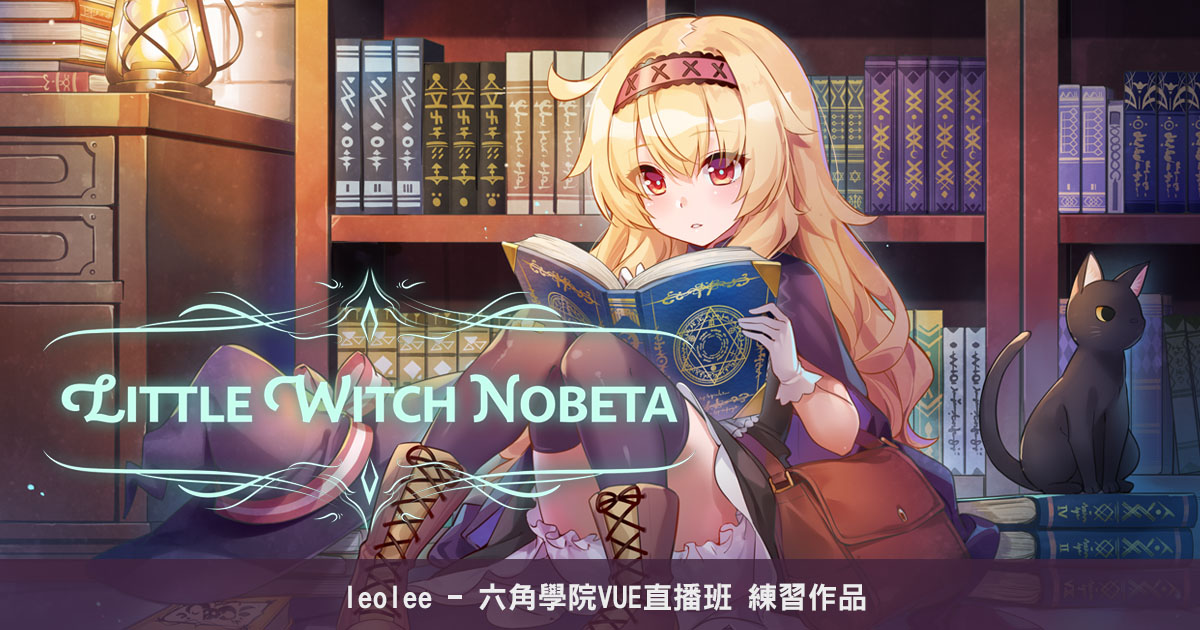
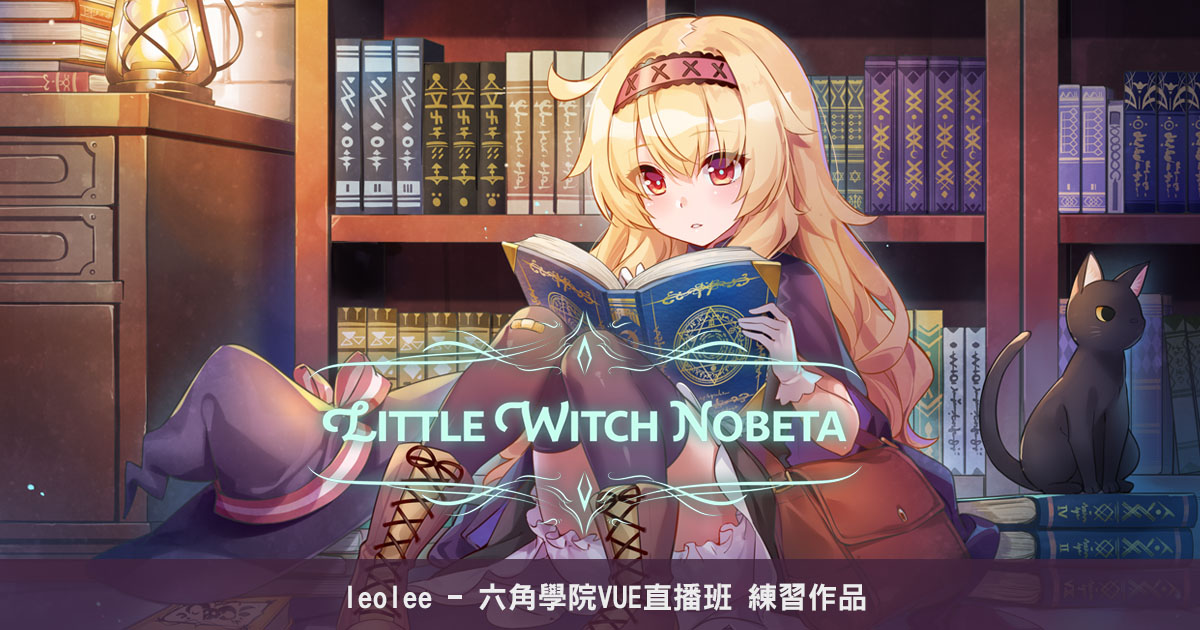
ogp圖修正 ogp line呈現 replace render

Changed region(s): [[0.0308, 0.4222, 0.7092, 0.8444]]

diff --git a/dist/js/app.71af3c0d.js b/dist/js/app.71af3c0d.js
@@ -1,0 +1,2 @@
+(function(e){function t(t){for(var c,r,o=t[0],i=t[1],d=t[2],f=0,l=[];f<o.length;f++)r=o[f],Object.prototype.hasOwnProperty.call(u,r)&&u[r]&&l.push(u[r][0]),u[r]=0;for(c in i)Object.prototype.hasOwnProperty.call(i,c)&&(e[c]=i[c]);h&&h(t);while(l.length)l.shift()();return a.push.apply(a,d||[]),n()}function n(){for(var e,t=0;t<a.length;t++){for(var n=a[t],c=!0,r=1;r<n.length;r++){var o=n[r];0!==u[o]&&(c=!1)}c&&(a.splice(t--,1),e=i(i.s=n[0]))}return e}var c={},r={app:0},u={app:0},a=[];function o(e){return i.p+"js/"+({}[e]||e)+"."+{"chunk-016425c0":"d58e2214","chunk-0167ba2d":"c37ff696","chunk-08be935a":"6f9b055a","chunk-16d38f62":"59ce5733","chunk-19ffc72b":"ac01c579","chunk-31a8e76e":"b71936c7","chunk-3552cd32":"1a8a3ce2","chunk-55d65c3c":"8c1a81f5","chunk-6f9ac5f0":"c57c2bc8","chunk-722bc18c":"5eccf3b7","chunk-d1561c14":"327c90f3","chunk-dfd9a15a":"2be42dbf","chunk-7b5731e5":"2cbac242","chunk-d80b04c0":"23c9bdae"}[e]+".js"}function i(t){if(c[t])return c[t].exports;var n=c[t]={i:t,l:!1,exports:{}};return e[t].call(n.exports,n,n.exports,i),n.l=!0,n.exports}i.e=function(e){var t=[],n={"chunk-016425c0":1,"chunk-31a8e76e":1,"chunk-3552cd32":1,"chunk-55d65c3c":1};r[e]?t.push(r[e]):0!==r[e]&&n[e]&&t.push(r[e]=new Promise((function(t,n){for(var c="css/"+({}[e]||e)+"."+{"chunk-016425c0":"f05ba646","chunk-0167ba2d":"31d6cfe0","chunk-08be935a":"31d6cfe0","chunk-16d38f62":"31d6cfe0","chunk-19ffc72b":"31d6cfe0","chunk-31a8e76e":"f05ba646","chunk-3552cd32":"67f9e00b","chunk-55d65c3c":"f05ba646","chunk-6f9ac5f0":"31d6cfe0","chunk-722bc18c":"31d6cfe0","chunk-d1561c14":"31d6cfe0","chunk-dfd9a15a":"31d6cfe0","chunk-7b5731e5":"31d6cfe0","chunk-d80b04c0":"31d6cfe0"}[e]+".css",u=i.p+c,a=document.getElementsByTagName("link"),o=0;o<a.length;o++){var d=a[o],f=d.getAttribute("data-href")||d.getAttribute("href");if("stylesheet"===d.rel&&(f===c||f===u))return t()}var l=document.getElementsByTagName("style");for(o=0;o<l.length;o++){d=l[o],f=d.getAttribute("data-href");if(f===c||f===u)return t()}var h=document.createElement("link");h.rel="stylesheet",h.type="text/css",h.onload=t,h.onerror=function(t){var c=t&&t.target&&t.target.src||u,a=new Error("Loading CSS chunk "+e+" failed.\n("+c+")");a.code="CSS_CHUNK_LOAD_FAILED",a.request=c,delete r[e],h.parentNode.removeChild(h),n(a)},h.href=u;var s=document.getElementsByTagName("head")[0];s.appendChild(h)})).then((function(){r[e]=0})));var c=u[e];if(0!==c)if(c)t.push(c[2]);else{var a=new Promise((function(t,n){c=u[e]=[t,n]}));t.push(c[2]=a);var d,f=document.createElement("script");f.charset="utf-8",f.timeout=120,i.nc&&f.setAttribute("nonce",i.nc),f.src=o(e);var l=new Error;d=function(t){f.onerror=f.onload=null,clearTimeout(h);var n=u[e];if(0!==n){if(n){var c=t&&("load"===t.type?"missing":t.type),r=t&&t.target&&t.target.src;l.message="Loading chunk "+e+" failed.\n("+c+": "+r+")",l.name="ChunkLoadError",l.type=c,l.request=r,n[1](l)}u[e]=void 0}};var h=setTimeout((function(){d({type:"timeout",target:f})}),12e4);f.onerror=f.onload=d,document.head.appendChild(f)}return Promise.all(t)},i.m=e,i.c=c,i.d=function(e,t,n){i.o(e,t)||Object.defineProperty(e,t,{enumerable:!0,get:n})},i.r=function(e){"undefined"!==typeof Symbol&&Symbol.toStringTag&&Object.defineProperty(e,Symbol.toStringTag,{value:"Module"}),Object.defineProperty(e,"__esModule",{value:!0})},i.t=function(e,t){if(1&t&&(e=i(e)),8&t)return e;if(4&t&&"object"===typeof e&&e&&e.__esModule)return e;var n=Object.create(null);if(i.r(n),Object.defineProperty(n,"default",{enumerable:!0,value:e}),2&t&&"string"!=typeof e)for(var c in e)i.d(n,c,function(t){return e[t]}.bind(null,c));return n},i.n=function(e){var t=e&&e.__esModule?function(){return e["default"]}:function(){return e};return i.d(t,"a",t),t},i.o=function(e,t){return Object.prototype.hasOwnProperty.call(e,t)},i.p="",i.oe=function(e){throw console.error(e),e};var d=window["webpackJsonp"]=window["webpackJsonp"]||[],f=d.push.bind(d);d.push=t,d=d.slice();for(var l=0;l<d.length;l++)t(d[l]);var h=f;a.push([0,"chunk-vendors"]),n()})({0:function(e,t,n){e.exports=n("56d7")},"56d7":function(e,t,n){"use strict";n.r(t);n("e260"),n("e6cf"),n("cca6"),n("a79d"),n("159b"),n("b64b");var c=n("7a23"),r=n("bc3a"),u=n.n(r),a=n("2106"),o=n.n(a),i=n("7bb1"),d=n("3aa8"),f=n("cbdf"),l=n("9457");n("7b17"),n("ab8b");function h(e,t,n,r,u,a){var o=Object(c["y"])("router-view");return Object(c["t"])(),Object(c["d"])(o)}var s={methods:{createTitleDesc:function(e){if(e.meta.title){var t=e.meta.title+" | 小魔女諾貝塔雜貨店";document.title=t}else document.title="小魔女諾貝塔雜貨店";if(e.meta.desc){var n=e.meta.desc+" | 小魔女諾貝塔雜貨店";document.querySelector("meta[name='description']").setAttribute("content",n)}else document.querySelector("meta[name='description']").setAttribute("content","小魔女諾貝塔雜貨店，在古堡探險的旅途中，為您提供所需的道具與物資。")}},mounted:function(){var e=this.$route;this.createTitleDesc(e)},watch:{$route:function(e){this.createTitleDesc(e)}}};s.render=h;var b=s,p=(n("d3b7"),n("3ca3"),n("ddb0"),n("6c02")),m=[{path:"/:pathMatch(.*)*",component:function(){return n.e("chunk-016425c0").then(n.bind(null,"8cdb"))},meta:{title:"找不到頁面",desc:""}},{path:"/login",component:function(){return n.e("chunk-31a8e76e").then(n.bind(null,"a55b"))},meta:{title:"後台登入介面",desc:""}},{path:"/",component:function(){return n.e("chunk-55d65c3c").then(n.bind(null,"d504"))},children:[{path:"",component:function(){return n.e("chunk-0167ba2d").then(n.bind(null,"ec27"))},meta:{title:"",desc:"諾貝塔為了瞭解自己的身世之謎而來到古堡探險，並在那邊挑戰了許多生魂，學習到各類的魔法與能力，同時也遇上了充滿謎團的小黑貓，如今已能在古堡裡獨當一面的諾貝塔，開始販賣起不知從何處入手的奇怪商品與物資…"}},{path:"products",component:function(){return n.e("chunk-19ffc72b").then(n.bind(null,"e6dc"))},meta:{title:"商品列表",desc:"專門販賣諾貝塔不知從何處入手的奇怪商品與物資…"}},{path:"product/:id",component:function(){return n.e("chunk-d80b04c0").then(n.bind(null,"d2f1"))}},{path:"cart",component:function(){return n.e("chunk-7b5731e5").then(n.bind(null,"b789"))},meta:{title:"購物車列表",desc:"距離獲得諾貝塔的稀有寶物與商品只差臨門一腳了"}},{path:"about",component:function(){return n.e("chunk-16d38f62").then(n.bind(null,"f820"))},meta:{title:"關於諾貝塔",desc:"關於諾貝塔為何踏上探險旅途的故事"}}]},{path:"/admin",component:function(){return n.e("chunk-3552cd32").then(n.bind(null,"459d"))},children:[{path:"",component:function(){return n.e("chunk-08be935a").then(n.bind(null,"4a84"))},meta:{title:"後台管理介面",desc:""}},{path:"products",component:function(){return Promise.all([n.e("chunk-6f9ac5f0"),n.e("chunk-d1561c14")]).then(n.bind(null,"724a"))},meta:{title:"商品列表",desc:""}},{path:"orders",component:function(){return Promise.all([n.e("chunk-6f9ac5f0"),n.e("chunk-dfd9a15a")]).then(n.bind(null,"860c"))},meta:{title:"訂單列表",desc:""}},{path:"coupon",component:function(){return Promise.all([n.e("chunk-6f9ac5f0"),n.e("chunk-722bc18c")]).then(n.bind(null,"6bde"))},meta:{title:"優惠券設定",desc:""}}]}],k=Object(p["a"])({history:Object(p["b"])(),routes:m}),v=k;n("ac1f"),n("5319"),n("b680");function g(e){var t=parseInt(e,10);return"".concat(t.toFixed(0).replace(/./g,(function(e,t,n){return t&&"."!==e&&(n.length-t)%3===0?", ".concat(e).replace(/\s/g,""):e})))}function y(e){var t=new Date(1e3*e);return t.toLocaleDateString()}Object.keys(d["a"]).forEach((function(e){"default"!==e&&Object(i["e"])(e,d["a"][e])})),Object(i["d"])({generateMessage:Object(f["a"])({zh_TW:l}),validateOnInput:!0}),Object(f["b"])("zh_TW");var O=Object(c["c"])(b);O.config.globalProperties.$filters={date:y,currency:g,render:function(e){return e(b)}},O.use(o.a,u.a),O.use(v),O.component("Form",i["c"]),O.component("Field",i["b"]),O.component("ErrorMessage",i["a"]),O.mount("#app")}});
+//# sourceMappingURL=app.71af3c0d.js.map

diff --git a/dist/index.html b/dist/index.html
@@ -1,1 +1,1 @@
-<!DOCTYPE html><html lang="zh-Hant-TW"><head><meta charset="utf-8"><meta http-equiv="X-UA-Compatible" content="IE=edge"><meta name="viewport" content="width=device-width,initial-scale=1"><link rel="icon" href="favicon.ico"><title>week08</title><meta name="description"><meta property="og:url" content="https://overactive1988.github.io/HexSchool_vue_lesson2021/week08/#/"><meta property="og:type" content="article"><meta property="og:title" content="小魔女諾貝塔雜貨店"><meta property="og:description" content="小魔女諾貝塔雜貨店，在古堡探險的旅途中，為您提供所需的道具與物資。"><meta property="og:image" content="https://overactive1988.github.io/HexSchool_vue_lesson2021/week08/ogp.jpg"><link href="https://fonts.googleapis.com/icon?family=Material+Icons" rel="stylesheet"><link rel="stylesheet" href="https://cdn.jsdelivr.net/npm/bootstrap-icons@1.5.0/font/bootstrap-icons.css"><link href="css/chunk-016425c0.f05ba646.css" rel="prefetch"><link href="css/chunk-31a8e76e.f05ba646.css" rel="prefetch"><link href="css/chunk-3552cd32.67f9e00b.css" rel="prefetch"><link href="css/chunk-55d65c3c.f05ba646.css" rel="prefetch"><link href="js/chunk-016425c0.d58e2214.js" rel="prefetch"><link href="js/chunk-0167ba2d.c37ff696.js" rel="prefetch"><link href="js/chunk-08be935a.6f9b055a.js" rel="prefetch"><link href="js/chunk-16d38f62.59ce5733.js" rel="prefetch"><link href="js/chunk-19ffc72b.ac01c579.js" rel="prefetch"><link href="js/chunk-31a8e76e.b71936c7.js" rel="prefetch"><link href="js/chunk-3552cd32.1a8a3ce2.js" rel="prefetch"><link href="js/chunk-55d65c3c.8c1a81f5.js" rel="prefetch"><link href="js/chunk-6f9ac5f0.c57c2bc8.js" rel="prefetch"><link href="js/chunk-722bc18c.5eccf3b7.js" rel="prefetch"><link href="js/chunk-7b5731e5.2cbac242.js" rel="prefetch"><link href="js/chunk-d1561c14.327c90f3.js" rel="prefetch"><link href="js/chunk-d80b04c0.23c9bdae.js" rel="prefetch"><link href="js/chunk-dfd9a15a.2be42dbf.js" rel="prefetch"><link href="css/chunk-vendors.454776ae.css" rel="preload" as="style"><link href="js/app.87087a17.js" rel="preload" as="script"><link href="js/chunk-vendors.9a68a853.js" rel="preload" as="script"><link href="css/chunk-vendors.454776ae.css" rel="stylesheet"></head><body><noscript><strong>We're sorry but week08 doesn't work properly without JavaScript enabled. Please enable it to continue.</strong></noscript><div id="app"></div><script src="js/chunk-vendors.9a68a853.js"></script><script src="js/app.87087a17.js"></script></body></html>
+<!DOCTYPE html><html lang="zh-Hant-TW"><head><meta charset="utf-8"><meta http-equiv="X-UA-Compatible" content="IE=edge"><meta name="viewport" content="width=device-width,initial-scale=1"><link rel="icon" href="favicon.ico"><title>week08</title><meta name="description"><meta property="og:url" content="https://overactive1988.github.io/HexSchool_vue_lesson2021/week08/#/"><meta property="og:type" content="article"><meta property="og:title" content="小魔女諾貝塔雜貨店"><meta property="og:description" content="小魔女諾貝塔雜貨店，在古堡探險的旅途中，為您提供所需的道具與物資。"><meta property="og:image" content="https://overactive1988.github.io/HexSchool_vue_lesson2021/week08/ogp.jpg"><link href="https://fonts.googleapis.com/icon?family=Material+Icons" rel="stylesheet"><link rel="stylesheet" href="https://cdn.jsdelivr.net/npm/bootstrap-icons@1.5.0/font/bootstrap-icons.css"><link href="css/chunk-016425c0.f05ba646.css" rel="prefetch"><link href="css/chunk-31a8e76e.f05ba646.css" rel="prefetch"><link href="css/chunk-3552cd32.67f9e00b.css" rel="prefetch"><link href="css/chunk-55d65c3c.f05ba646.css" rel="prefetch"><link href="js/chunk-016425c0.d58e2214.js" rel="prefetch"><link href="js/chunk-0167ba2d.c37ff696.js" rel="prefetch"><link href="js/chunk-08be935a.6f9b055a.js" rel="prefetch"><link href="js/chunk-16d38f62.59ce5733.js" rel="prefetch"><link href="js/chunk-19ffc72b.ac01c579.js" rel="prefetch"><link href="js/chunk-31a8e76e.b71936c7.js" rel="prefetch"><link href="js/chunk-3552cd32.1a8a3ce2.js" rel="prefetch"><link href="js/chunk-55d65c3c.8c1a81f5.js" rel="prefetch"><link href="js/chunk-6f9ac5f0.c57c2bc8.js" rel="prefetch"><link href="js/chunk-722bc18c.5eccf3b7.js" rel="prefetch"><link href="js/chunk-7b5731e5.2cbac242.js" rel="prefetch"><link href="js/chunk-d1561c14.327c90f3.js" rel="prefetch"><link href="js/chunk-d80b04c0.23c9bdae.js" rel="prefetch"><link href="js/chunk-dfd9a15a.2be42dbf.js" rel="prefetch"><link href="css/chunk-vendors.454776ae.css" rel="preload" as="style"><link href="js/app.71af3c0d.js" rel="preload" as="script"><link href="js/chunk-vendors.9a68a853.js" rel="preload" as="script"><link href="css/chunk-vendors.454776ae.css" rel="stylesheet"></head><body><noscript><strong>We're sorry but week08 doesn't work properly without JavaScript enabled. Please enable it to continue.</strong></noscript><div id="app"></div><script src="js/chunk-vendors.9a68a853.js"></script><script src="js/app.71af3c0d.js"></script></body></html>

diff --git a/src/main.js b/src/main.js
@@ -36,6 +36,7 @@ const app = createApp(App);
 app.config.globalProperties.$filters = {
   date,
   currency,
+  render: h => h(App)
 };
 
 app.use(VueAxios, axios);
@@ -44,5 +45,6 @@ app.use(router);
 app.component("Form", Form);
 app.component("Field", Field);
 app.component("ErrorMessage", ErrorMessage);
+
 
 app.mount("#app");
